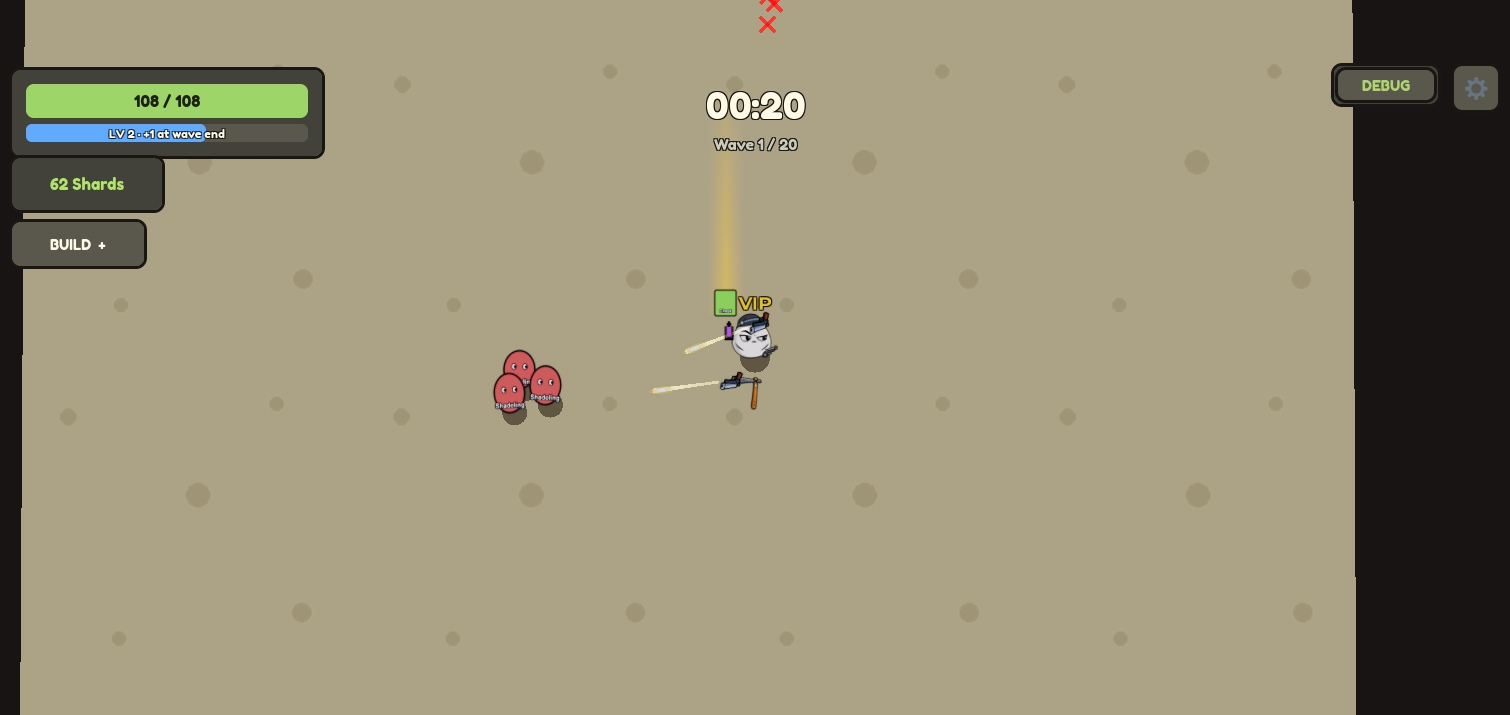
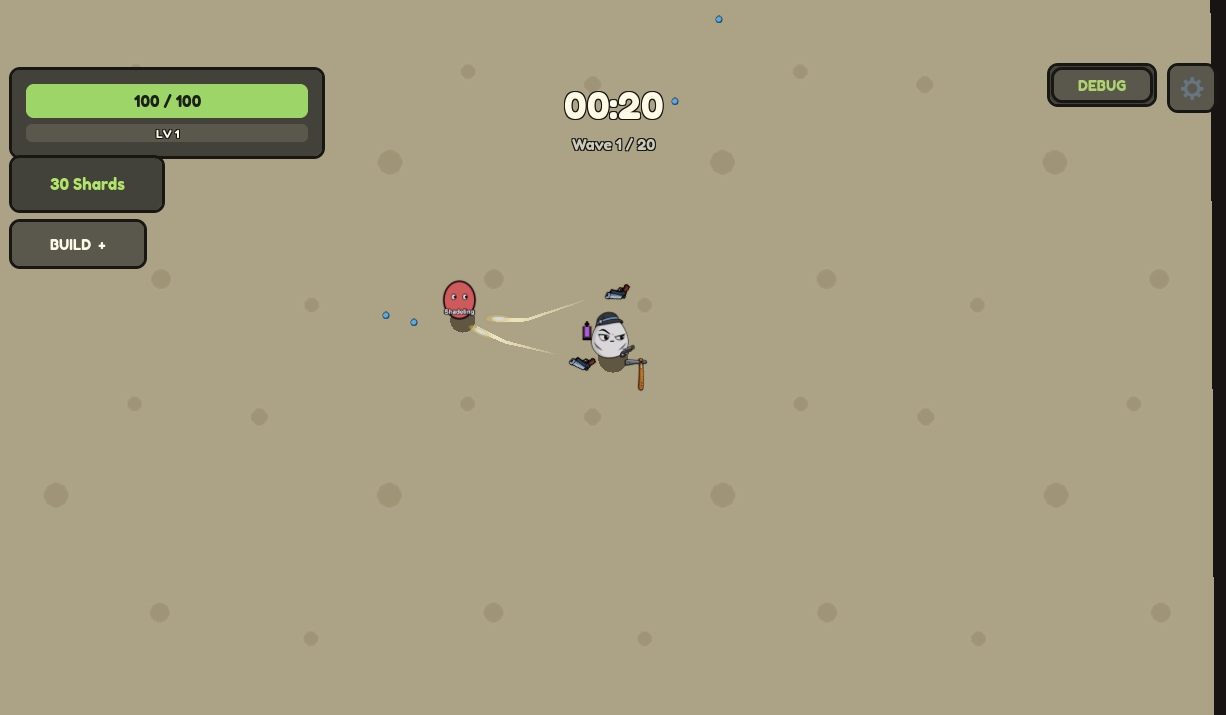
Keep weapons off the figure and drop the VIP tag from the world

diff --git a/DESIGN.md b/DESIGN.md
@@ -908,7 +908,7 @@ Bewusst nicht: harte Countdown-Angebote oder Serien, die bei einem verpassten Ta
 **Umgesetzt (Paket 16, 31.10.2026):** VIP, Double Embers, Revive, Reroll ×3 (`3 Rerolls`), die drei Ember-Pakete und der Server Ember Boost; Klassen-Pass, Lantern Pass, Kosmetik-Shop und Abo bleiben Live-Ops. Katalog und IDs in `Config/Store.luau` (pro Experience, ID 0 = noch nicht angelegt → im Store „not set up yet", nicht kaufbar), Zahlen in `Config/Economy.luau`, Regeln in `Util/PurchaseRules`, Server `MonetizationService`, Client `StoreController`.
 
 - **Wo man kauft:** Lobby-Knopf „STORE" (Passes, 3 Rerolls, Ember-Pakete, Boost; Preis, „OWNED", gespeicherte Revives/Rerolls), im Shop der Knopf neben „Reroll" („Bonus reroll (n)" oder „+3 rerolls · R$ 25"), beim Gestürzt-Sein im Koop „REVIVE NOW · R$ 49" bzw. „USE REVIVE (1)". Nie während man kämpft. Den Kaufdialog zeigt Roblox; der Client schickt nur den Wunsch (`RequestPurchase`), der Server prüft (eingerichtet, Pass nicht schon da, Revive nur liegend, 1× pro Run, mit einem stehenden Mitspieler) und öffnet den Dialog.
-- **VIP:** Schild „VIP" über dem Kopf, „[VIP]" vor Chat-Nachrichten, goldene Spur, +1 Gratis-Neuwurf im Shop pro Run, +10 % Embers. Seit Paket 17 sind Laterne „Gilded Sunburst“ und Spur „Gilded Trail“ VIP-Kosmetik: VIP-Spieler tragen sie, solange sie nichts anderes wählen.
+- **VIP:** „[VIP]" vor Chat-Nachrichten (kein Schild über dem Kopf mehr, Owner-Wunsch Paket 25), goldene Spur, +1 Gratis-Neuwurf im Shop pro Run, +10 % Embers. Seit Paket 17 sind Laterne „Gilded Sunburst“ und Spur „Gilded Trail“ VIP-Kosmetik: VIP-Spieler tragen sie, solange sie nichts anderes wählen.
 - **Double Embers:** +100 % auf die Embers jedes Runs.
 - **Revive:** eine Revive-Marke im Profil; liegt man gerade, steht man sofort auf (40 % HP und 2 s Schutz wie beim Wiederbeleben), sonst beim nächsten Mal per Knopf. Höchstens 1 pro Run, nur wenn noch ein Mitspieler steht (solo endet der Run beim Sturz).
 - **3 Rerolls:** drei gespeicherte Gratis-Neuwürfe für den Shop (erst der VIP-Neuwurf, dann die Marken); sie erhöhen den Neuwurf-Preis nicht.
@@ -966,7 +966,7 @@ Umsetzungsstand, technische Checks und die noch ausstehende echte Studio-Abnahme
 | Größen | `Config/Sprites.luau`. Gegner: Breite = Trefferradius × `enemy.figureWidth`, die Trefferzonen bleiben unverändert. Gloom Elites nutzen das Bild ihrer Art, größer und mit Krone. |
 | Animation | Ein Bild pro Figur. Spiegeln, Hüpfen, Quetschen, Neigen, Treffer-Blitz und Färbung macht der Code. |
 | Boden | Kachelbild pro Fläche (`Sprites.floors`). Warnflächen und Ringe bleiben flache Teile am Boden. |
-| Kamera und Licht | Fast senkrecht von oben (Abschnitt 4). Flaches Licht ohne Sonne, Schatten, Reflexe und Lichtquellen (`Map.lighting`), Bilder zeigen ihre genauen Farben. Dunkler Boden rund um Arena und Lobby. Weil man Höhe von oben nicht sieht, wirkt alles „nach oben“ auf dem Bild: Hüpfen, Krone, VIP-Schild und Laternenlicht liegen nördlich der Figur. |
+| Kamera und Licht | Fast senkrecht von oben (Abschnitt 4). Flaches Licht ohne Sonne, Schatten, Reflexe und Lichtquellen (`Map.lighting`), Bilder zeigen ihre genauen Farben. Dunkler Boden rund um Arena und Lobby. Weil man Höhe von oben nicht sieht, wirkt alles „nach oben“ auf dem Bild: Hüpfen, Krone und Waffenkreis liegen nördlich der Füße. Die Waffen schweben um die Mitte der Figur mit Abstand zum Körper (`Sprites.heldWeapons`); das ist reine Darstellung, Schüsse starten auf dem Server weiter an `Util/WeaponPose`. |
 | Unsichtbar | Spieler-Avatar, Gegner-Anker, Portal-Rahmen und Lobby-Masten bleiben für Bewegung, Kollision und Prompts erhalten, ohne sichtbar zu sein. |
 
 - **Stil (seit Paket 9d, Wunsch des Owners: „im Style von Deadlock"): okkultes Art déco.** Gealtertes Messing und Gold, Porzellanmasken, Gasmasken und Kutten, rußschwarze Kreaturen, dazu leuchtende Augen, Linsen und Risse in kräftigen Neonfarben, Sonnenstrahlen- und Zackenformen. Übernommen ist nur die Stimmung: keine Figuren, Namen, Logos oder Designs aus Deadlock.

diff --git a/STATUS.md b/STATUS.md
@@ -398,10 +398,11 @@ Branch `wp-25-2d-presentation`. **Owner-Entscheidungen dieses Pakets:** Das Spie
 
 - Alles in der Welt ist jetzt ein Bild über `Util/WorldSprite`: Charaktere (ohne R15-Modelle und Bone-Animation), Gegner, Bosse, Beute, Bauten, Truhen, XP, Geschosse, Laternen, Lobby-Objekte, Boden. Unsichtbare Avatare und Anker übernehmen Bewegung, Kollision und Prompts. Server, Remotes und Spielwerte unverändert. `EnemyRenderer/Models.luau` und `MeshCatalog.luau` bleiben als alte Quelle im Repo, werden aber nicht mehr geladen.
 - Kamera 89,5° von oben, 115 Studs Abstand. Flaches Licht, keine Lichtquellen, dunkler Boden rund um die Flächen. Figur 5,4 Studs hoch, Trefferzonen gleich.
+- Waffen schweben mit Abstand um die Mitte der Figur (`Sprites.heldWeapons`, nur Darstellung; Schüsse starten auf dem Server weiter an `Util/WeaponPose`). Kein VIP-Schild mehr in der Welt, „[VIP]" im Chat bleibt.
 - Blade Warden: Standard-Charakter ist Night Watch, Marble Host wird mit dem ersten Sieg frei (Dawn), Schema 9 tauscht gespeicherte Besitz-Einträge und Tagesaufgaben auf Night Watch. 21 Erfolge, 9 Charaktere.
 - **Bilder:** Liste `tools/art2d/sprites.json`, Auftrag `docs/SPRITE-AUFTRAG.md`. Lieferung nach `assets/world2d/final/<gruppe>/<Name>.png`. Einbau: `python tools/art2d/import_sprites.py build`, `build/world2d` lokal bereitstellen (`python -m http.server 34880 --directory build/world2d`), die Adressen aus `build/world2d/upload.txt` mit dem Studio-MCP-Werkzeug `upload_image` hochladen (höchstens 6 pro Aufruf, größere Mengen laufen in die Zeitüberschreitung), Antwort als JSON speichern, `import_sprites.py apply <datei>`. Bis dahin stehen Platzhalter mit Namen im Spiel; die neun Charaktere behalten ihre heutigen Bilder, auf denen teils noch Waffen zu sehen sind.
 - **Falle:** Config-Dateien dürfen beim Laden kein `Color3` benutzen, manche Specs laden Config ohne Roblox-Mock. Farben als `{ r, g, b }`.
 - **Falle:** Höhe sieht man von oben nicht. Was auf dem Bild höher stehen soll, kommt nach Norden (`z` kleiner) oder in `StudsOffset`; Trails brauchen `FaceCamera`.
-- **Prüfung:** Lune-Testlauf 720 bestanden / 31 fehlgeschlagen, unveränderter `main` 709 / 31, dieselben 31 Fehler, keine neuen. StyLua für die geänderten Dateien, Selene 0 Fehler / 11 alte Warnungen, Rojo-Build erfolgreich. Solo in Studio geprüft: Klassenwechsel in der Lobby (immer genau ein Sprite und ein Schatten), Kampf, Down, Rückkehr nach dem Run, 40 Gegner plus Elite auf einmal (Reihenfolge vorn/hinten stimmt), Bauten, Kisten, Truhe; im Output keine neuen Fehler.
+- **Prüfung:** Lune-Testlauf 720 bestanden / 31 fehlgeschlagen, unveränderter `main` 709 / 31, dieselben 31 Fehler, keine neuen. StyLua für die geänderten Dateien, Selene 0 Fehler / 11 alte Warnungen, Rojo-Build erfolgreich. Solo in Studio geprüft: Klassenwechsel in der Lobby (immer genau ein Sprite und ein Schatten), Kampf, Down, Rückkehr nach dem Run, 40 Gegner plus Elite auf einmal (Reihenfolge vorn/hinten stimmt), Bauten, Kisten, Truhe; im Output keine neuen Fehler. In einem von vier Gesamtläufen schlug `tests/Security23.spec.luau` („left the run with a debug command off the boards“) einmalig fehl; einzeln und in den übrigen Läufen grün, Ursache nicht geklärt.
 - **Nicht geprüft:** zwei Clients, Handy-Lesbarkeit und FPS, Revive durch einen Mitspieler, echter Run-Place. Bilder von ChatGPT gibt es noch nicht, der Look ist also noch nicht beurteilbar.
 - **Als Nächstes:** Paket 26 Sprites (ChatGPT, Medium): zuerst die Probe aus `docs/SPRITE-AUFTRAG.md`, danach der Rest. Einbau durch Claude. Offen: weiter an Brotato angleichen (HUD, Shop, Namen), wenn der Owner das will.
